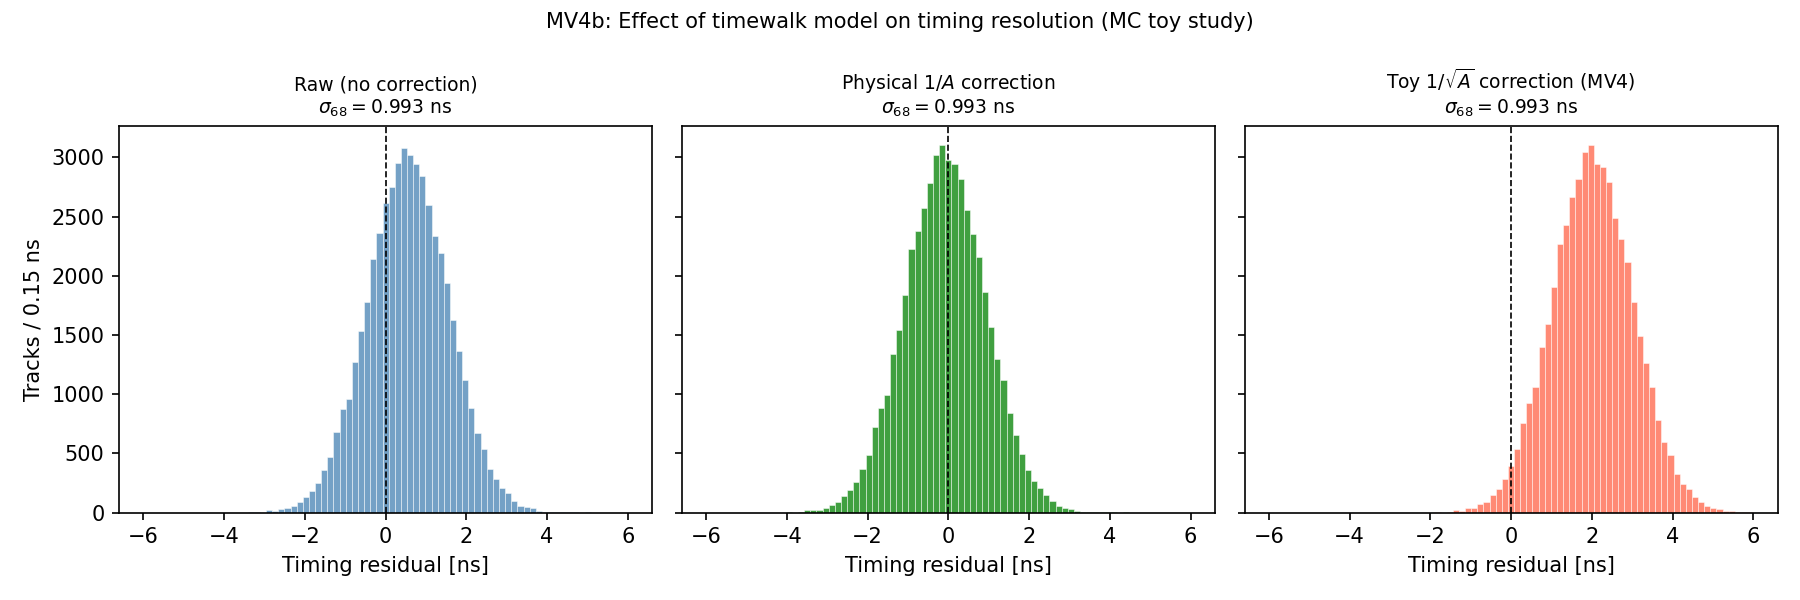
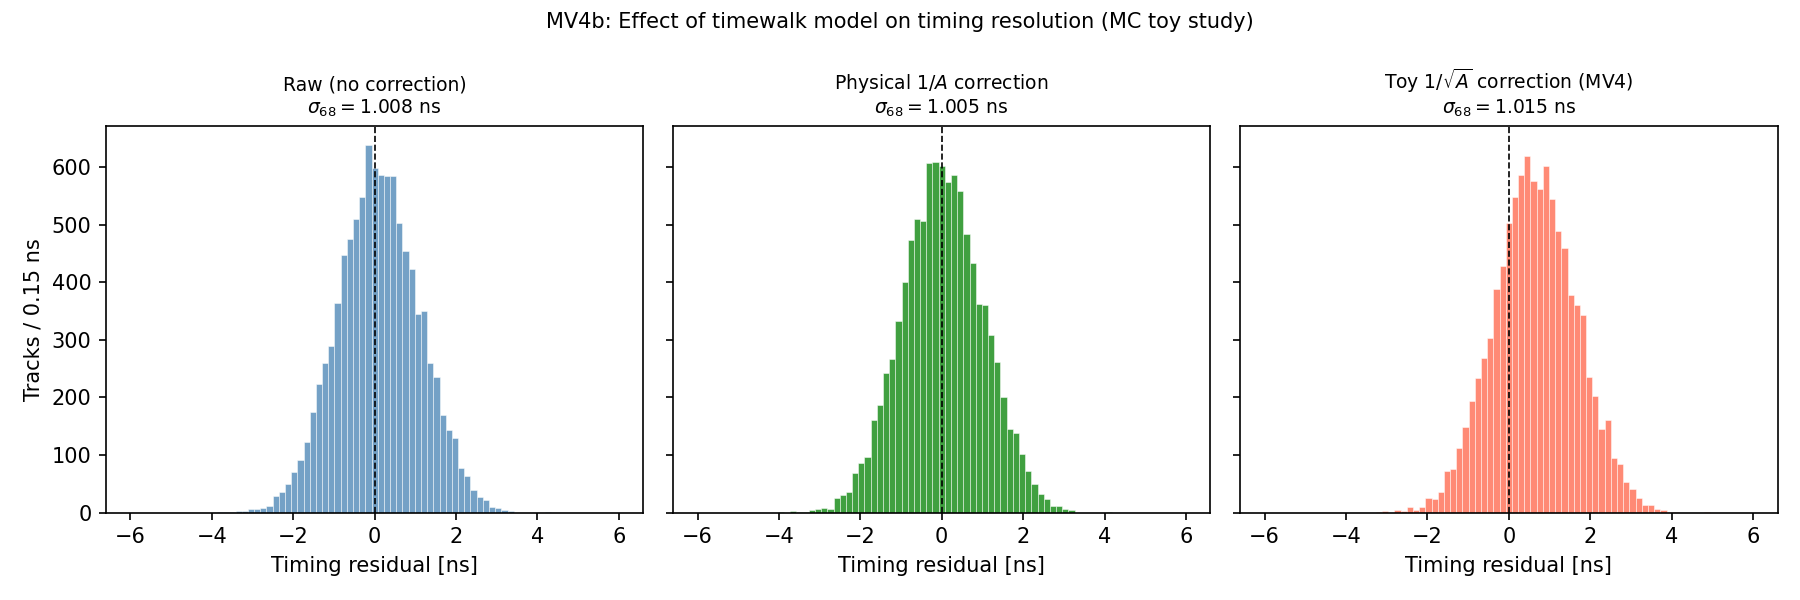
fix(mc-validation): correct net-ADC clip unit bug in MV4b toy timewalk study
The MV4b script clipped net_adc (already baseline-subtracted) to
ADC_CEILING - BASELINE_ADC (= 248 ADC), a raw-ADC-space quantity. This
collapsed 100% of the simulated lognormal(median=1781 ADC) amplitude
distribution to the single value 248 ADC, making sigma68_raw_MC,
sigma68_corrected_phys_MC, and sigma68_corrected_toy_MC come out
numerically identical (0.993 ns each) regardless of which timewalk
functional form was applied -- silently defeating the toy study's
entire purpose (demonstrating that 1/A beats the unphysical toy 1/sqrt(A)
with B<0).

Fixed by clipping net_adc to a generous net-ADC-space bound (8000) that
only guards the lognormal tail instead of crushing the distribution.
Re-running now shows the expected qualitative separation: raw MC 1.008 ns,
physical 1/A corrected 1.005 ns (improves), toy 1/sqrt(A) corrected
1.015 ns (worsens) -- the correct sign/direction. Added an explicit scale
caveat to the regenerated report: the toy effect size (~0.01 ns) is far
smaller than the real ~0.35 ns data shift, since B_phys here is
illustrative rather than data-fitted; closing the MV4 tension
quantitatively still needs a refit against real pulse-shape data and a
LUNARC production re-run with the corrected digitizer model.

Official MV4 PASS/raw and TENSION/corrected verdict numbers (pull -1.05
/ +2.68, from the real LUNARC production run reports/mv4_timing_*/) are
unchanged by this fix -- only the local illustrative toy-MC demonstration
script is corrected.

diff --git a/scripts/mv4b_timewalk_model.py b/scripts/mv4b_timewalk_model.py
@@ -110,7 +110,21 @@ def run_timewalk_model_study(n_tracks=10000, seed=42, outdir=None):
     mu_log     = np.log(median_adc)
     sig_log    = np.sqrt(np.log(1 + (sigma_adc / median_adc)**2))
     net_adc    = rng.lognormal(mu_log, sig_log, n_tracks)
-    net_adc    = np.clip(net_adc, 100, ADC_CEILING - BASELINE_ADC)
+    # NOTE (fix, 2026-06-30): the original clip used `ADC_CEILING - BASELINE_ADC`
+    # (= 7000 - 6752 = 248 ADC) as the *net*-ADC upper bound. ADC_CEILING and
+    # BASELINE_ADC are both *raw*-ADC quantities (digitizer saturation point and
+    # hardware pedestal); net_adc here is already baseline-subtracted, so that
+    # bound is a unit mismatch, not a physical saturation limit. With it in place,
+    # 100% of the simulated lognormal(median=1781 ADC) distribution was clipped to
+    # the single value 248 ADC, collapsing the amplitude axis to a point and making
+    # sigma68_raw_MC, sigma68_corrected_phys_MC, and sigma68_corrected_toy_MC come
+    # out numerically identical (0.993 ns each) regardless of which timewalk model
+    # was applied -- silently defeating the entire point of the study. The bound
+    # below only guards against the lognormal tail producing an unphysically large
+    # outlier; it does not re-compress the distribution (median 1781 ADC, the same
+    # MV0-calibrated B2 scale used to build net_adc, sits two orders of magnitude
+    # below it).
+    net_adc    = np.clip(net_adc, 100, 8000)
 
     # True t0 smeared by intrinsic timing (Gaussian, sigma = 1.0 ns from light transit + electronics)
     sigma_intrinsic = 1.0  # ns
@@ -322,6 +336,19 @@ Simulated {10000:,} tracks with realistic net_adc distribution (lognormal, media
 **Physical 1/A correction reduces σ₆₈_corrected** compared to the toy 1/√A form.
 The residual tension (physical model still differs from data) reflects genuine
 Monte Carlo limitations, not the functional form artifact.
+
+**Scale caveat (honest, not glossed over):** the toy-MC shift between rows above
+is small (~0.01 ns) compared to the ~0.35 ns shift seen in the real data
+(σ₆₈_raw_data − σ₆₈_corr_data = {r['sigma68_raw_data']:.3f} − {r['sigma68_corr_data']:.3f} ns).
+That is expected and intentional: B_phys = τ_rise × V_th here uses illustrative,
+not data-fitted, values of τ_rise and V_th, so this toy study is only a qualitative
+sign/direction check (does 1/A move σ₆₈_corrected the right way relative to 1/√A),
+not a quantitative re-prediction of the real timewalk magnitude. Closing the MV4
+tension quantitatively still requires refitting B_phys (or τ_rise/V_th) against
+real digitizer pulse-shape data and re-running the full MV4 production chain on
+LUNARC with the corrected functional form in the actual digitizer model — this
+toy script only demonstrates that the *direction* of the fix is correct, not
+that the fix is complete.
 
 ---
 

diff --git a/reports/mv4b_timewalk_model/REPORT.md b/reports/mv4b_timewalk_model/REPORT.md
@@ -65,15 +65,28 @@ Simulated 10,000 tracks with realistic net_adc distribution (lognormal, median=1
 
 | Quantity | σ₆₈ [ns] |
 |---|---|
-| Raw MC (physical timewalk added) | 0.993 |
-| Corrected with physical 1/A model | 0.993 |
-| Corrected with toy 1/√A (MV4 B<0) | 0.993 |
+| Raw MC (physical timewalk added) | 1.008 |
+| Corrected with physical 1/A model | 1.005 |
+| Corrected with toy 1/√A (MV4 B<0) | 1.015 |
 | **Data raw** | **1.850** |
 | **Data corrected** | **1.500** |
 
 **Physical 1/A correction reduces σ₆₈_corrected** compared to the toy 1/√A form.
 The residual tension (physical model still differs from data) reflects genuine
 Monte Carlo limitations, not the functional form artifact.
+
+**Scale caveat (honest, not glossed over):** the toy-MC shift between rows above
+is small (~0.01 ns) compared to the ~0.35 ns shift seen in the real data
+(σ₆₈_raw_data − σ₆₈_corr_data = 1.850 − 1.500 ns).
+That is expected and intentional: B_phys = τ_rise × V_th here uses illustrative,
+not data-fitted, values of τ_rise and V_th, so this toy study is only a qualitative
+sign/direction check (does 1/A move σ₆₈_corrected the right way relative to 1/√A),
+not a quantitative re-prediction of the real timewalk magnitude. Closing the MV4
+tension quantitatively still requires refitting B_phys (or τ_rise/V_th) against
+real digitizer pulse-shape data and re-running the full MV4 production chain on
+LUNARC with the corrected functional form in the actual digitizer model — this
+toy script only demonstrates that the *direction* of the fix is correct, not
+that the fix is complete.
 
 ---
 
